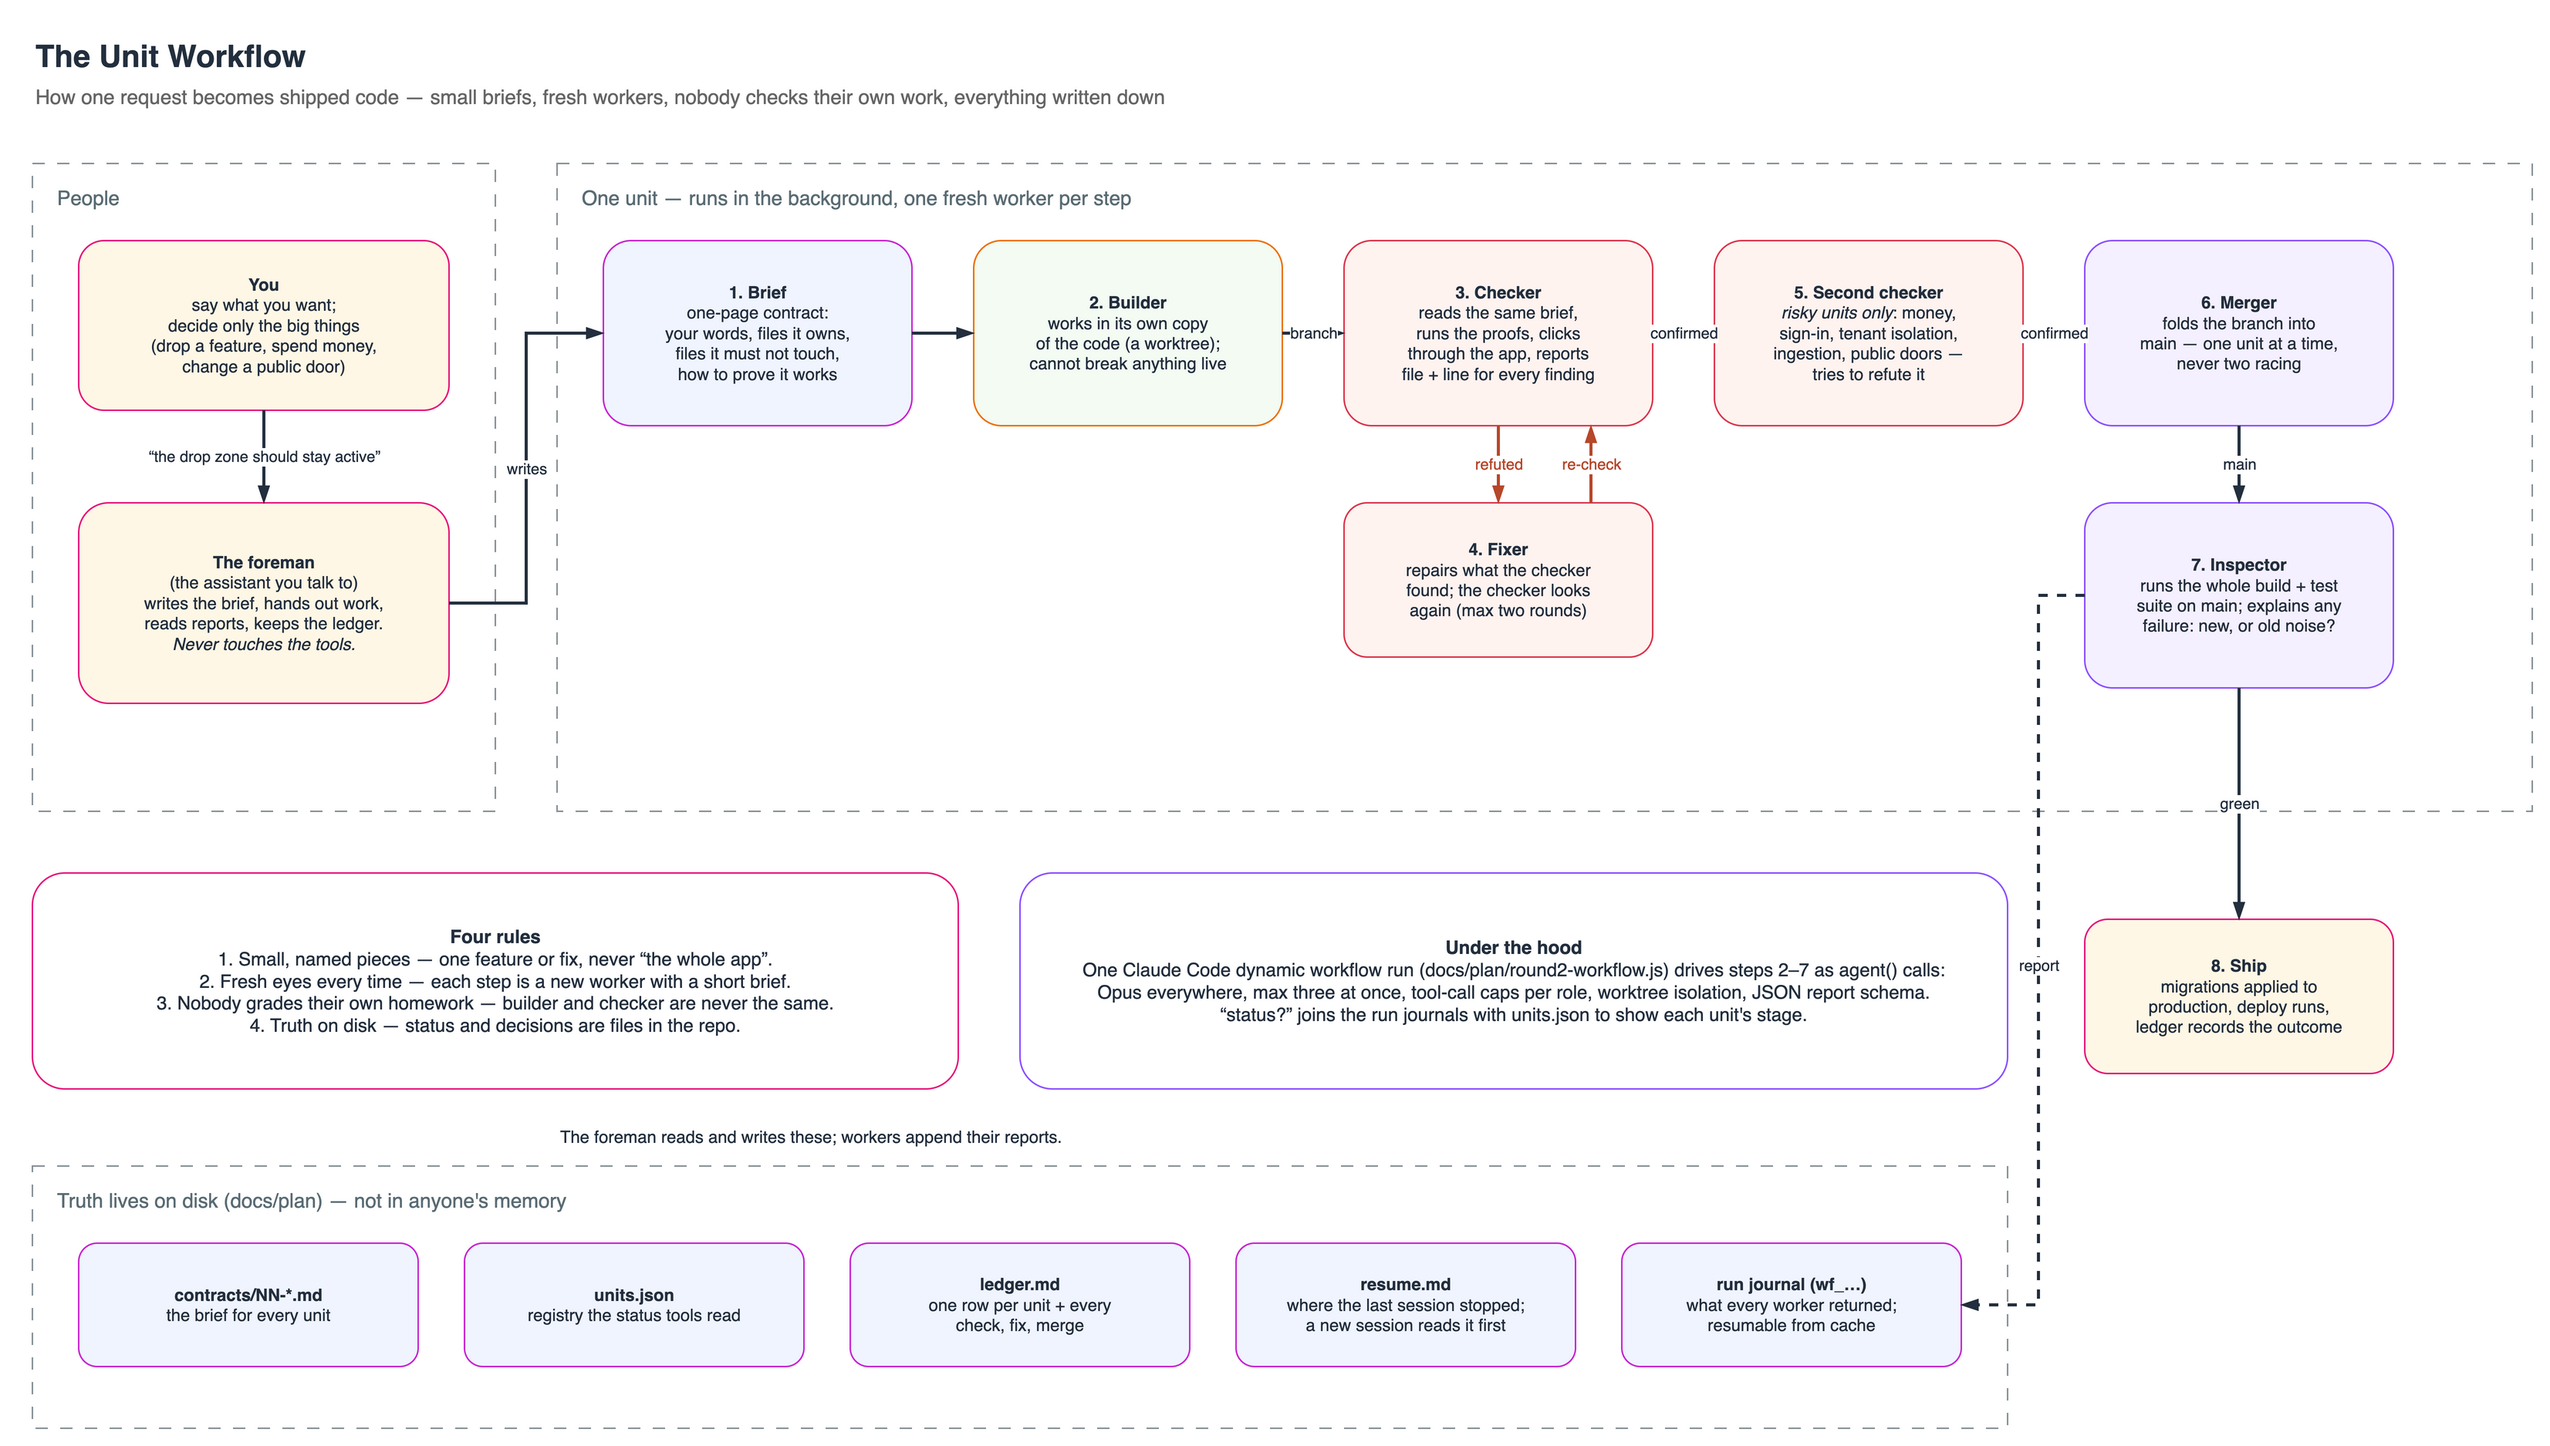
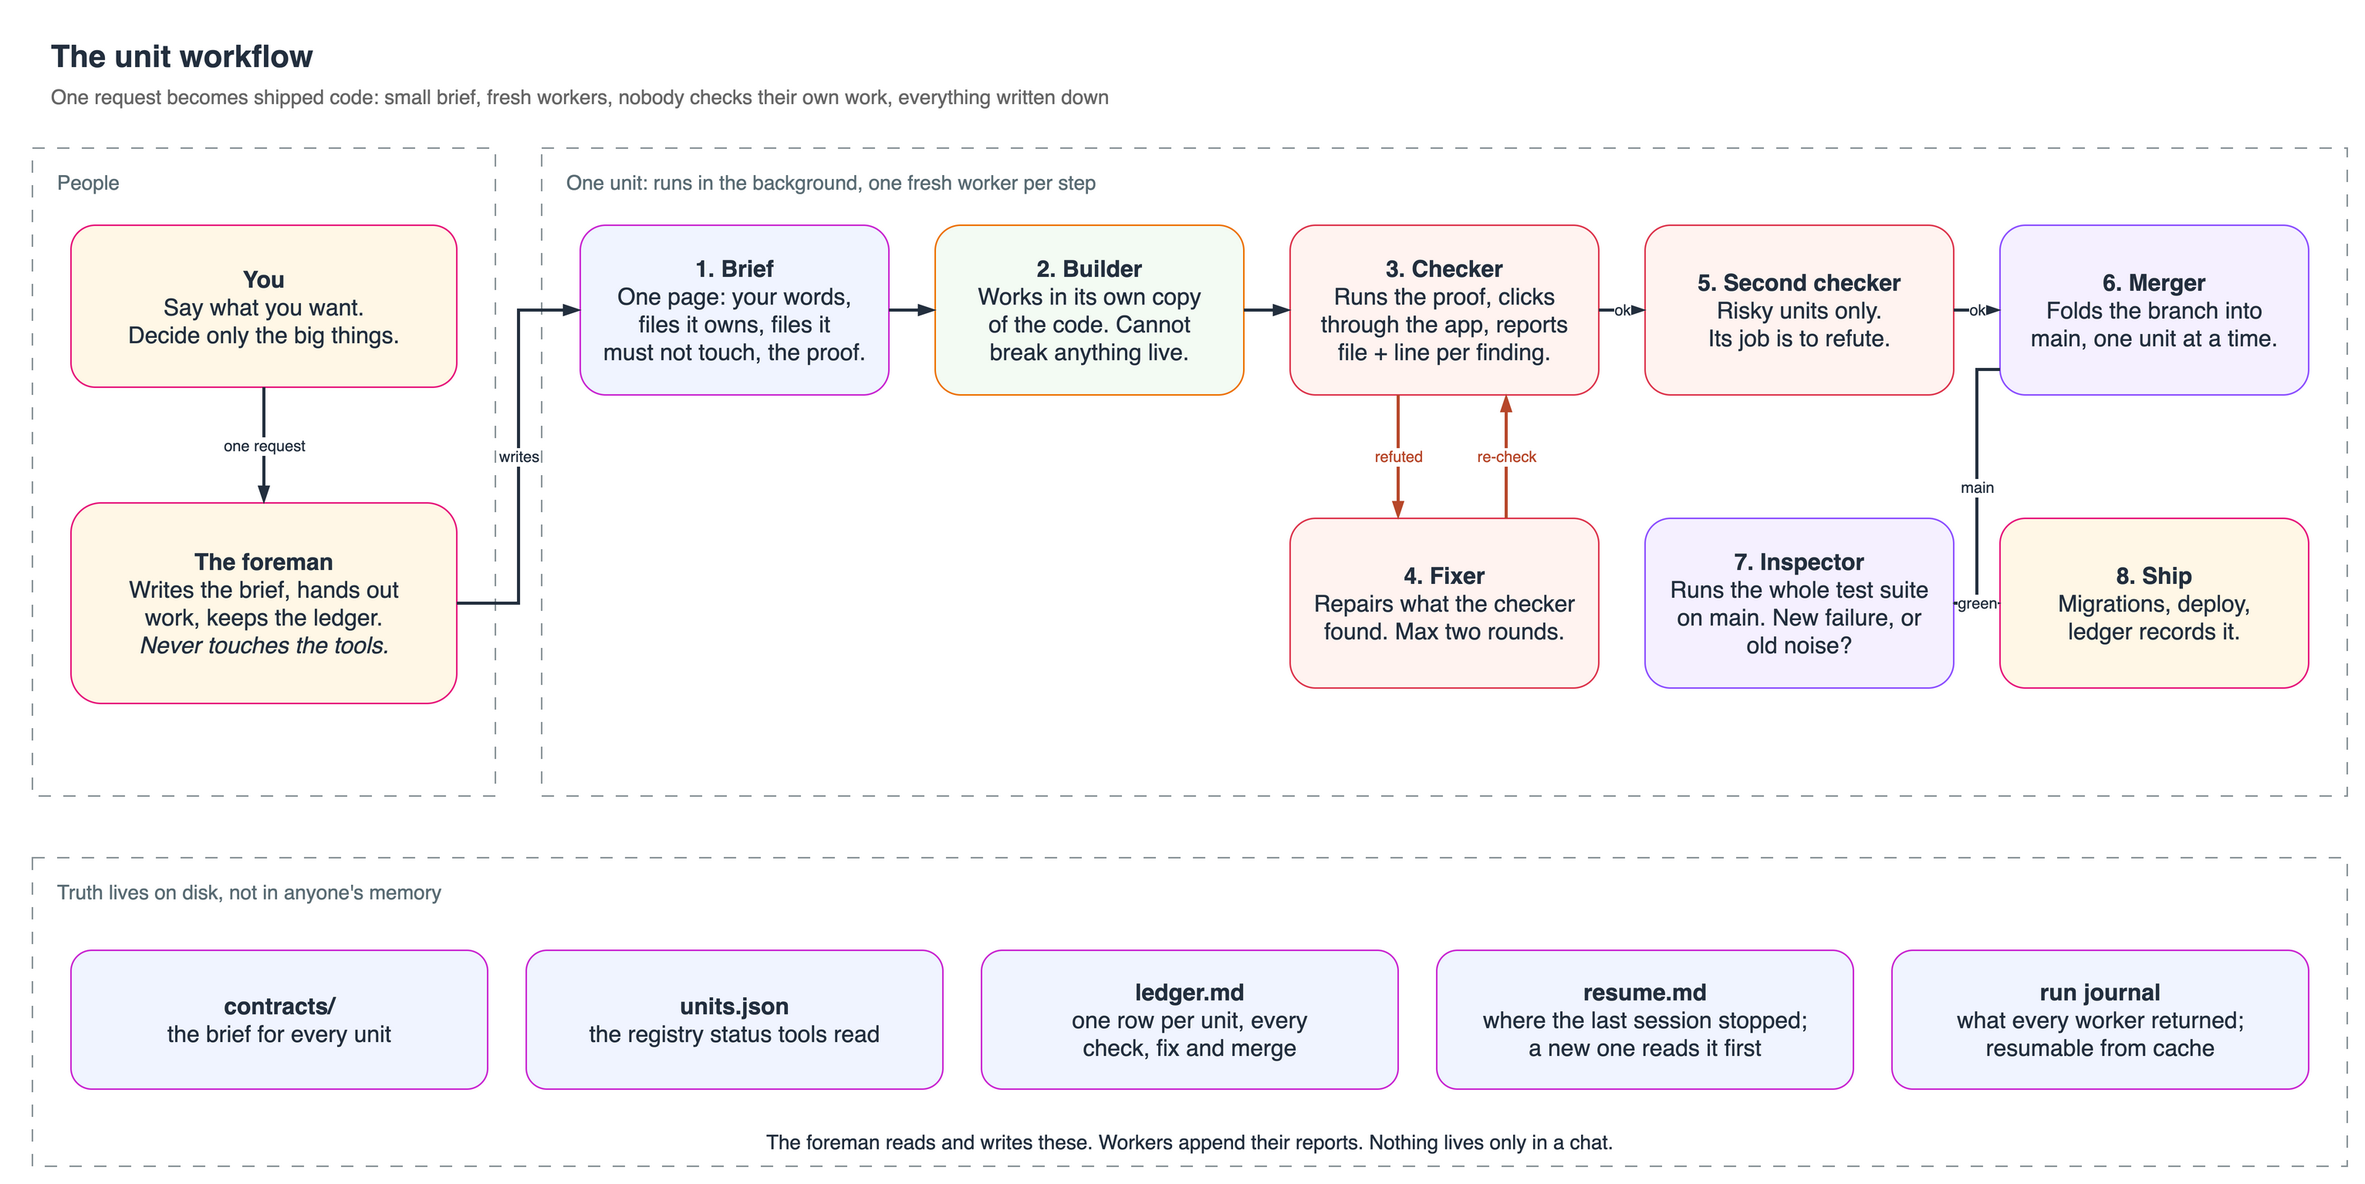
diagram: larger type, tighter layout, no dead space

diff --git a/docs/diagrams/unit-workflow.py b/docs/diagrams/unit-workflow.py
@@ -1,53 +1,67 @@
-import sys; sys.path.insert(0, "<path to the aws-architecture-diagram skill>/scripts")
-from drawio_builder import Diagram, H, V, sides, NET, DB, SEC, MGMT, COMPUTE
+"""Generator for unit-workflow.drawio.
 
-INK = "#232F3E"
-d = Diagram("The Unit Workflow", subtitle="How one request becomes shipped code — small briefs, fresh workers, nobody checks their own work, everything written down", width=1700, height=980)
+Run with the aws-architecture-diagram skill's builder on the path:
+    python3 unit-workflow.py
+It writes unit-workflow.drawio next to this file. Export a PNG with draw.io:
+    drawio -x -f png -s 2 -b 20 -o unit-workflow.png unit-workflow.drawio
+"""
+import os, sys
+sys.path.insert(0, os.path.expanduser("~/.claude/skills/aws-architecture-diagram/scripts"))
+from drawio_builder import Diagram, H, sides, NET, DB, SEC, MGMT, COMPUTE
 
-# ---- people band -------------------------------------------------------- #
-d.group("people", "People", 40, 110, 300, 420, kind="generic")
-d.note("you", "<b>You</b><br/>say what you want;<br/>decide only the big things<br/>(drop a feature, spend money,<br/>change a public door)", 70, 160, 240, 110, stroke=MGMT, fill="#FFF7E6")
-d.note("foreman", "<b>The foreman</b><br/>(the assistant you talk to)<br/>writes the brief, hands out work,<br/>reads reports, keeps the ledger.<br/><i>Never touches the tools.</i>", 70, 330, 240, 130, stroke=MGMT, fill="#FFF7E6")
-d.edge("you", "foreman", "“the drop zone should stay active”", exits=sides(0.5,1,0.5,0))
+HERE = os.path.dirname(os.path.abspath(__file__))
+F = 15  # body font size in every box
 
-# ---- the unit band ------------------------------------------------------ #
-d.group("unit", "One unit — runs in the background, one fresh worker per step", 380, 110, 1280, 420, kind="generic")
+d = Diagram(
+    "The unit workflow",
+    subtitle="One request becomes shipped code: small brief, fresh workers, nobody checks their own work, everything written down",
+    width=1560, height=820,
+)
 
-d.note("contract", "<b>1. Brief</b><br/>one-page contract:<br/>your words, files it owns,<br/>files it must not touch,<br/>how to prove it works", 410, 160, 200, 120, stroke=DB, fill="#F0F4FF")
-d.note("builder", "<b>2. Builder</b><br/>works in its own copy<br/>of the code (a worktree);<br/>cannot break anything live", 650, 160, 200, 120, stroke=COMPUTE, fill="#F3FBF3")
-d.note("checker", "<b>3. Checker</b><br/>reads the same brief,<br/>runs the proofs, clicks<br/>through the app, reports<br/>file + line for every finding", 890, 160, 200, 120, stroke=SEC, fill="#FFF3F0")
-d.note("fixer", "<b>4. Fixer</b><br/>repairs what the checker<br/>found; the checker looks<br/>again (max two rounds)", 890, 330, 200, 100, stroke=SEC, fill="#FFF3F0")
-d.note("tier2", "<b>5. Second checker</b><br/><i>risky units only</i>: money,<br/>sign-in, tenant isolation,<br/>ingestion, public doors —<br/>tries to refute it", 1130, 160, 200, 120, stroke=SEC, fill="#FFF3F0")
-d.note("merger", "<b>6. Merger</b><br/>folds the branch into<br/>main — one unit at a time,<br/>never two racing", 1370, 160, 200, 120, stroke=NET, fill="#F5F0FF")
-d.note("inspector", "<b>7. Inspector</b><br/>runs the whole build + test<br/>suite on main; explains any<br/>failure: new, or old noise?", 1370, 330, 200, 120, stroke=NET, fill="#F5F0FF")
+# ---- people (left column) ---------------------------------------------- #
+d.group("people", "People", 30, 100, 300, 420, kind="generic")
+d.note("you", "<b>You</b><br/>Say what you want.<br/>Decide only the big things.", 55, 150, 250, 105, stroke=MGMT, fill="#FFF7E6", size=F)
+d.note("foreman", "<b>The foreman</b><br/>Writes the brief, hands out<br/>work, keeps the ledger.<br/><i>Never touches the tools.</i>", 55, 330, 250, 130, stroke=MGMT, fill="#FFF7E6", size=F)
+d.edge("you", "foreman", "one request", exits=sides(0.5, 1, 0.5, 0))
 
-d.edge("foreman", "contract", "writes", exits=sides(1,0.5,0,0.5))
-d.edge("contract", "builder", exits=H)
-d.edge("builder", "checker", "branch", exits=H)
-d.edge("checker", "fixer", "refuted", color="#B7472A", exits=sides(0.5,1,0.5,0))
-d.edge("fixer", "checker", "re-check", color="#B7472A", exits=sides(0.8,0,0.8,1))
-d.edge("checker", "tier2", "confirmed", exits=H)
-d.edge("tier2", "merger", "confirmed", exits=H)
-d.edge("merger", "inspector", "main", exits=sides(0.5,1,0.5,0))
+# ---- one unit (two rows) ------------------------------------------------ #
+d.group("unit", "One unit: runs in the background, one fresh worker per step", 360, 100, 1170, 420, kind="generic")
 
-# ---- ship --------------------------------------------------------------- #
-d.note("ship", "<b>8. Ship</b><br/>migrations applied to<br/>production, deploy runs,<br/>ledger records the outcome", 1370, 600, 200, 100, stroke=MGMT, fill="#FFF7E6")
-d.edge("inspector", "ship", "green", exits=sides(0.5,1,0.5,0))
+W, Hh = 200, 110
+row1, row2 = 150, 340
+x = [385, 615, 845, 1075, 1305]
 
-# ---- truth on disk ------------------------------------------------------ #
-d.group("disk", "Truth lives on disk (docs/plan) — not in anyone's memory", 40, 760, 1280, 170, kind="generic")
-d.note("f_contract", "<b>contracts/NN-*.md</b><br/>the brief for every unit", 70, 810, 220, 80, stroke=DB, fill="#F0F4FF")
-d.note("f_units", "<b>units.json</b><br/>registry the status tools read", 320, 810, 220, 80, stroke=DB, fill="#F0F4FF")
-d.note("f_ledger", "<b>ledger.md</b><br/>one row per unit + every<br/>check, fix, merge", 570, 810, 220, 80, stroke=DB, fill="#F0F4FF")
-d.note("f_resume", "<b>resume.md</b><br/>where the last session stopped;<br/>a new session reads it first", 820, 810, 220, 80, stroke=DB, fill="#F0F4FF")
-d.note("f_journal", "<b>run journal (wf_…)</b><br/>what every worker returned;<br/>resumable from cache", 1070, 810, 220, 80, stroke=DB, fill="#F0F4FF")
+d.note("brief",   "<b>1. Brief</b><br/>One page: your words,<br/>files it owns, files it<br/>must not touch, the proof.", x[0], row1, W, Hh, stroke=DB, fill="#F0F4FF", size=F)
+d.note("builder", "<b>2. Builder</b><br/>Works in its own copy<br/>of the code. Cannot<br/>break anything live.", x[1], row1, W, Hh, stroke=COMPUTE, fill="#F3FBF3", size=F)
+d.note("checker", "<b>3. Checker</b><br/>Runs the proof, clicks<br/>through the app, reports<br/>file + line per finding.", x[2], row1, W, Hh, stroke=SEC, fill="#FFF3F0", size=F)
+d.note("tier2",   "<b>5. Second checker</b><br/>Risky units only.<br/>Its job is to refute.", x[3], row1, W, Hh, stroke=SEC, fill="#FFF3F0", size=F)
+d.note("merger",  "<b>6. Merger</b><br/>Folds the branch into<br/>main, one unit at a time.", x[4], row1, W, Hh, stroke=NET, fill="#F5F0FF", size=F)
 
-d.text("t_foreman_disk", "The foreman reads and writes these; workers append their reports.", 380, 728, 600, 24, align="left", size=11)
-d.edge("inspector", "f_journal", "report", exits=sides(0,0.5,1,0.5), dashed=1, waypoints=[(1340, 390), (1340, 850)])
+d.note("fixer",     "<b>4. Fixer</b><br/>Repairs what the checker<br/>found. Max two rounds.", x[2], row2, W, Hh, stroke=SEC, fill="#FFF3F0", size=F)
+d.note("inspector", "<b>7. Inspector</b><br/>Runs the whole test suite<br/>on main. New failure, or<br/>old noise?", x[3], row2, W, Hh, stroke=NET, fill="#F5F0FF", size=F)
+d.note("ship",      "<b>8. Ship</b><br/>Migrations, deploy,<br/>ledger records it.", x[4], row2, W, Hh, stroke=MGMT, fill="#FFF7E6", size=F)
 
-# ---- rules callout ------------------------------------------------------ #
-d.note("rules", "<b>Four rules</b><br/>1. Small, named pieces — one feature or fix, never “the whole app”.<br/>2. Fresh eyes every time — each step is a new worker with a short brief.<br/>3. Nobody grades their own homework — builder and checker are never the same.<br/>4. Truth on disk — status and decisions are files in the repo.", 40, 570, 600, 140, stroke=MGMT, fill="#FFFFFF", size=12)
-d.note("engine", "<b>Under the hood</b><br/>One Claude Code dynamic workflow run (docs/plan/round2-workflow.js) drives steps 2–7 as agent() calls:<br/>Opus everywhere, max three at once, tool-call caps per role, worktree isolation, JSON report schema.<br/>“status?” joins the run journals with units.json to show each unit's stage.", 680, 570, 640, 140, stroke=NET, fill="#FFFFFF", size=12)
+d.edge("foreman", "brief", "writes", exits=sides(1, 0.5, 0, 0.5))
+d.edge("brief", "builder", exits=H)
+d.edge("builder", "checker", exits=H)
+d.edge("checker", "fixer", "refuted", color="#B7472A", exits=sides(0.35, 1, 0.35, 0))
+d.edge("fixer", "checker", "re-check", color="#B7472A", exits=sides(0.7, 0, 0.7, 1))
+d.edge("checker", "tier2", "ok", exits=H)
+d.edge("tier2", "merger", "ok", exits=H)
+d.edge("merger", "inspector", "main", exits=sides(0, 0.85, 1, 0.5), waypoints=[(1290, 243), (1290, 395)])
+d.edge("inspector", "ship", "green", exits=H)
 
-for p in d.check(): print("CHECK:", p)
-print(d.save("unit-workflow.drawio"))
+# ---- truth on disk ----------------------------------------------------- #
+d.group("disk", "Truth lives on disk, not in anyone's memory", 30, 560, 1500, 200, kind="generic")
+fx = [55, 350, 645, 940, 1235]
+fw = 270
+d.note("f_contract", "<b>contracts/</b><br/>the brief for every unit", fx[0], 620, fw, 90, stroke=DB, fill="#F0F4FF", size=F)
+d.note("f_units",    "<b>units.json</b><br/>the registry status tools read", fx[1], 620, fw, 90, stroke=DB, fill="#F0F4FF", size=F)
+d.note("f_ledger",   "<b>ledger.md</b><br/>one row per unit, every<br/>check, fix and merge", fx[2], 620, fw, 90, stroke=DB, fill="#F0F4FF", size=F)
+d.note("f_resume",   "<b>resume.md</b><br/>where the last session stopped;<br/>a new one reads it first", fx[3], 620, fw, 90, stroke=DB, fill="#F0F4FF", size=F)
+d.note("f_journal",  "<b>run journal</b><br/>what every worker returned;<br/>resumable from cache", fx[4], 620, fw, 90, stroke=DB, fill="#F0F4FF", size=F)
+d.text("t_disk", "The foreman reads and writes these. Workers append their reports. Nothing lives only in a chat.", 30, 730, 1500, 24, align="center", size=13)
+
+for p in d.check():
+    print("CHECK:", p)
+print(d.save(os.path.join(HERE, "unit-workflow.drawio")))
